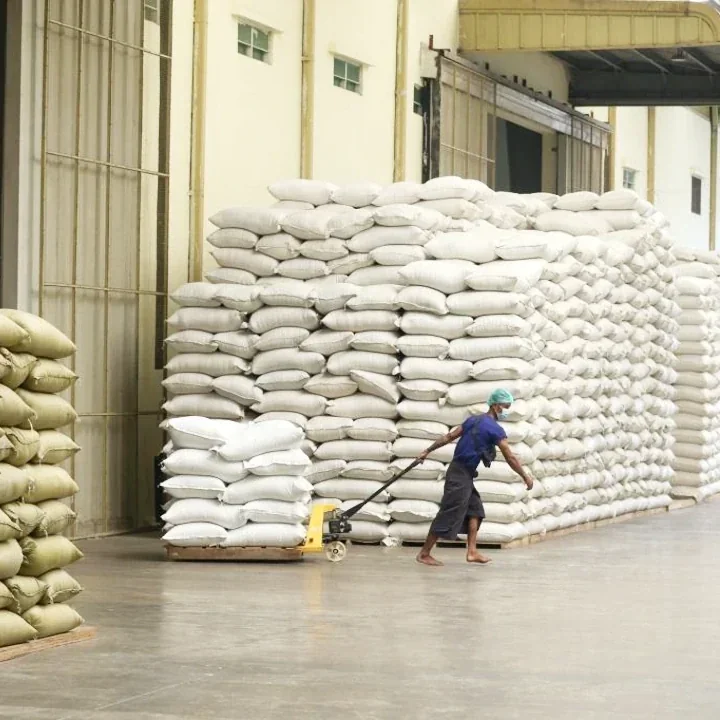
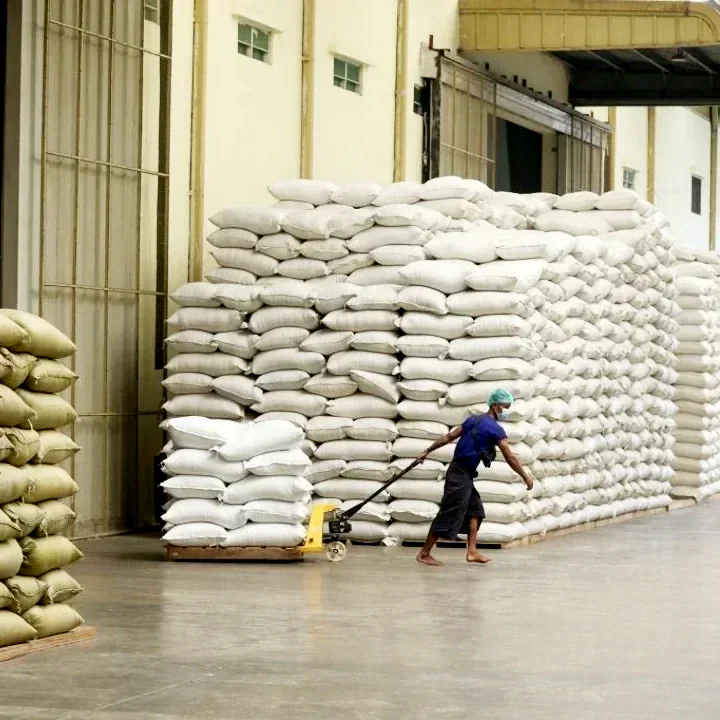
First production release

diff --git a/src/components/sections/services/data.ts b/src/components/sections/services/data.ts
@@ -1,5 +1,5 @@
 import img1 from "./assets/MDF_001.webp";
-import img2 from "./assets/Plywood_07.webp";
+import img2 from "./assets/Plywood_05.webp";
 import img3 from "./assets/BlockBoard_005.webp";
 import img4 from "./assets/hpl_006.webp";
 import img5 from "./assets/wpc_009.webp";
